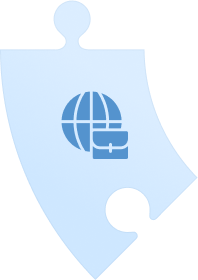
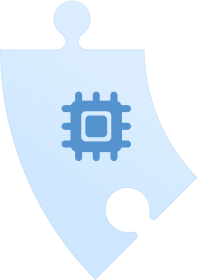
Practices redesign

Changed region(s): [[0.303, 0.3143, 0.6667, 0.5714]]

diff --git a/src/Pages/MainPage/Sections/Practices/Practices.tsx b/src/Pages/MainPage/Sections/Practices/Practices.tsx
@@ -54,8 +54,8 @@ export const Practices = ({ className }: IProps) => {
             <div className={practicesCn('puzzle')}>
               <div className={practicesCn('puzzle-center')}></div>
               <div
-                id={'investing'}
-                onMouseEnter={() => setActiveSection(SectionType.Investing)}
+                id={'marketing'}
+                onMouseEnter={() => setActiveSection(SectionType.Marketing)}
                 className={
                   practicesCn('puzzle-first') +
                   ' ' +
@@ -63,8 +63,8 @@ export const Practices = ({ className }: IProps) => {
                 }
               ></div>
               <div
-                id={'banking'}
-                onMouseEnter={() => setActiveSection(SectionType.Banking)}
+                id={'efficiency'}
+                onMouseEnter={() => setActiveSection(SectionType.Efficiency)}
                 className={
                   practicesCn('puzzle-second') +
                   ' ' +
@@ -81,8 +81,8 @@ export const Practices = ({ className }: IProps) => {
                 }
               ></div>
               <div
-                id={'efficiency'}
-                onMouseEnter={() => setActiveSection(SectionType.Efficiency)}
+                id={'investing'}
+                onMouseEnter={() => setActiveSection(SectionType.Investing)}
                 className={
                   practicesCn('puzzle-fourth') +
                   ' ' +
@@ -90,10 +90,19 @@ export const Practices = ({ className }: IProps) => {
                 }
               ></div>
               <div
-                id={'international'}
-                onMouseEnter={() => setActiveSection(SectionType.International)}
+                id={'transformation'}
+                onMouseEnter={() => setActiveSection(SectionType.Transformation)}
                 className={
                   practicesCn('puzzle-fifth') +
+                  ' ' +
+                  practicesCn('puzzle-selection')
+                }
+              ></div>
+                            <div
+                id={'innovation-projects'}
+                onMouseEnter={() => setActiveSection(SectionType.InnovationProjects)}
+                className={
+                  practicesCn('puzzle-sixth') +
                   ' ' +
                   practicesCn('puzzle-selection')
                 }
@@ -102,16 +111,16 @@ export const Practices = ({ className }: IProps) => {
                 id={'strategy'}
                 onMouseEnter={() => setActiveSection(SectionType.Strategy)}
                 className={
-                  practicesCn('puzzle-sixth') +
+                  practicesCn('puzzle-seventh') +
                   ' ' +
                   practicesCn('puzzle-selection')
                 }
               ></div>
               <div
-                id={'innovations'}
-                onMouseEnter={() => setActiveSection(SectionType.Innovations)}
+                id={'banking'}
+                onMouseEnter={() => setActiveSection(SectionType.Banking)}
                 className={
-                  practicesCn('puzzle-seventh') +
+                  practicesCn('puzzle-eighth') +
                   ' ' +
                   practicesCn('puzzle-selection')
                 }

diff --git a/src/Pages/MainPage/Sections/Practices/Practices.scss b/src/Pages/MainPage/Sections/Practices/Practices.scss
@@ -54,14 +54,14 @@
     }
 
     &-first {
-      background-image: url("@/assets/images/practices/selection-investing.png");
+      background-image: url("@/assets/images/practices/selection.png");
       margin-left: 264px;
       margin-top: -100px;
       width: 198px;
       height: 280px;
 
       &:hover {
-        background-image: url("@/assets/images/practices/selection-active-investing.png");
+        background-image: url("@/assets/images/practices/selection-active-marketing.png");
       }
     }
 
@@ -73,7 +73,7 @@
       margin-top: 134px;
 
       &:hover {
-        background-image: url("@/assets/images/practices/selection-active-banking.png");
+        background-image: url("@/assets/images/practices/selection-active-efficiency.png");
       }
     }
 
@@ -109,31 +109,44 @@
       margin-left: -198px;
 
       &:hover {
-        background-image: url("@/assets/images/practices/selection-active-international.png");
+        background-image: url("@/assets/images/practices/selection-active-transformation.png");
       }
     }
 
     &-sixth {
       background-image: url("@/assets/images/practices/selection6.png");
-      width: 198px;
-      height: 231px;
+      width: 197px;
+      height: 230px;
       margin-top: -100px;
       margin-left: -198px;
 
       &:hover {
-        background-image: url("@/assets/images/practices/selection-active-strategy.png");
+        background-image: url("@/assets/images/practices/selection-active-innovation-projects.png");
       }
     }
 
     &-seventh {
       background-image: url("@/assets/images/practices/selection7.png");
       width: 280px;
-      height: 198px;
-      margin-top: -198px;
-      margin-left: -101px;
+      height: 195px;
+      margin-top: -199px;
+      margin-left: -100px;
 
       &:hover {
-        background-image: url("@/assets/images/practices/selection-active-innovations.png");
+        background-image: url("@/assets/images/practices/selection-active-strategy.png");
+      }
+      
+    }
+
+    &-eighth {
+      background-image: url("@/assets/images/practices/selection8.png");
+      width: 230px;
+      height: 198px;
+      margin-top: -198px;
+      margin-left: 134px;
+
+      &:hover {
+        background-image: url("@/assets/images/practices/selection-active-banking.png");
       }
     }
   }
